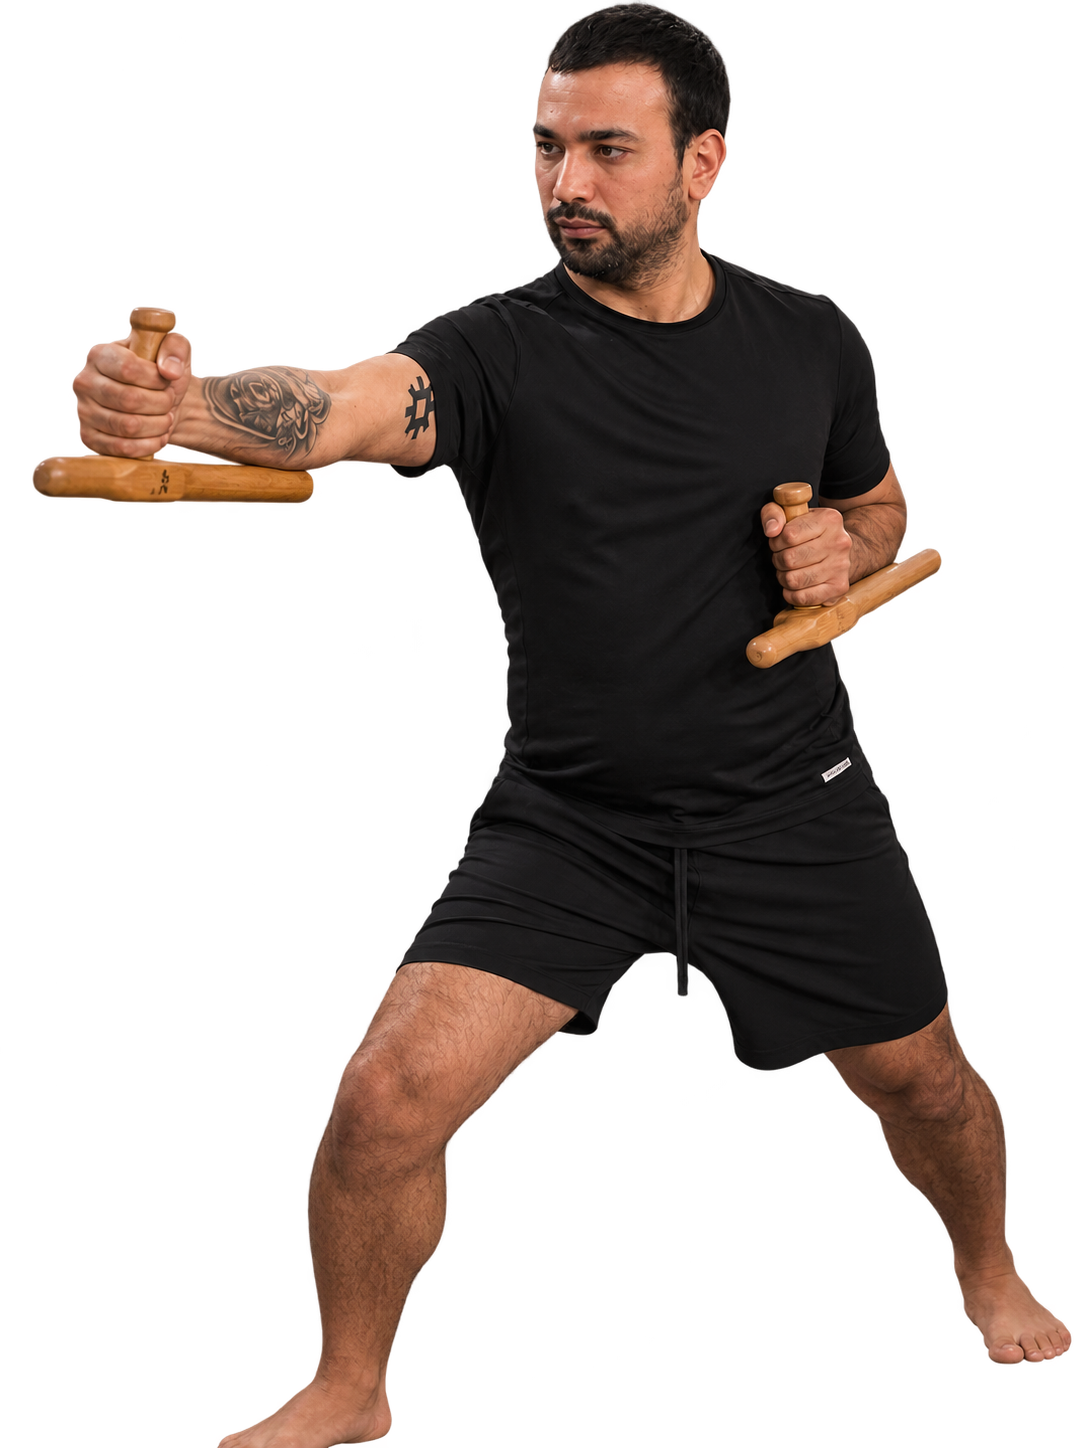
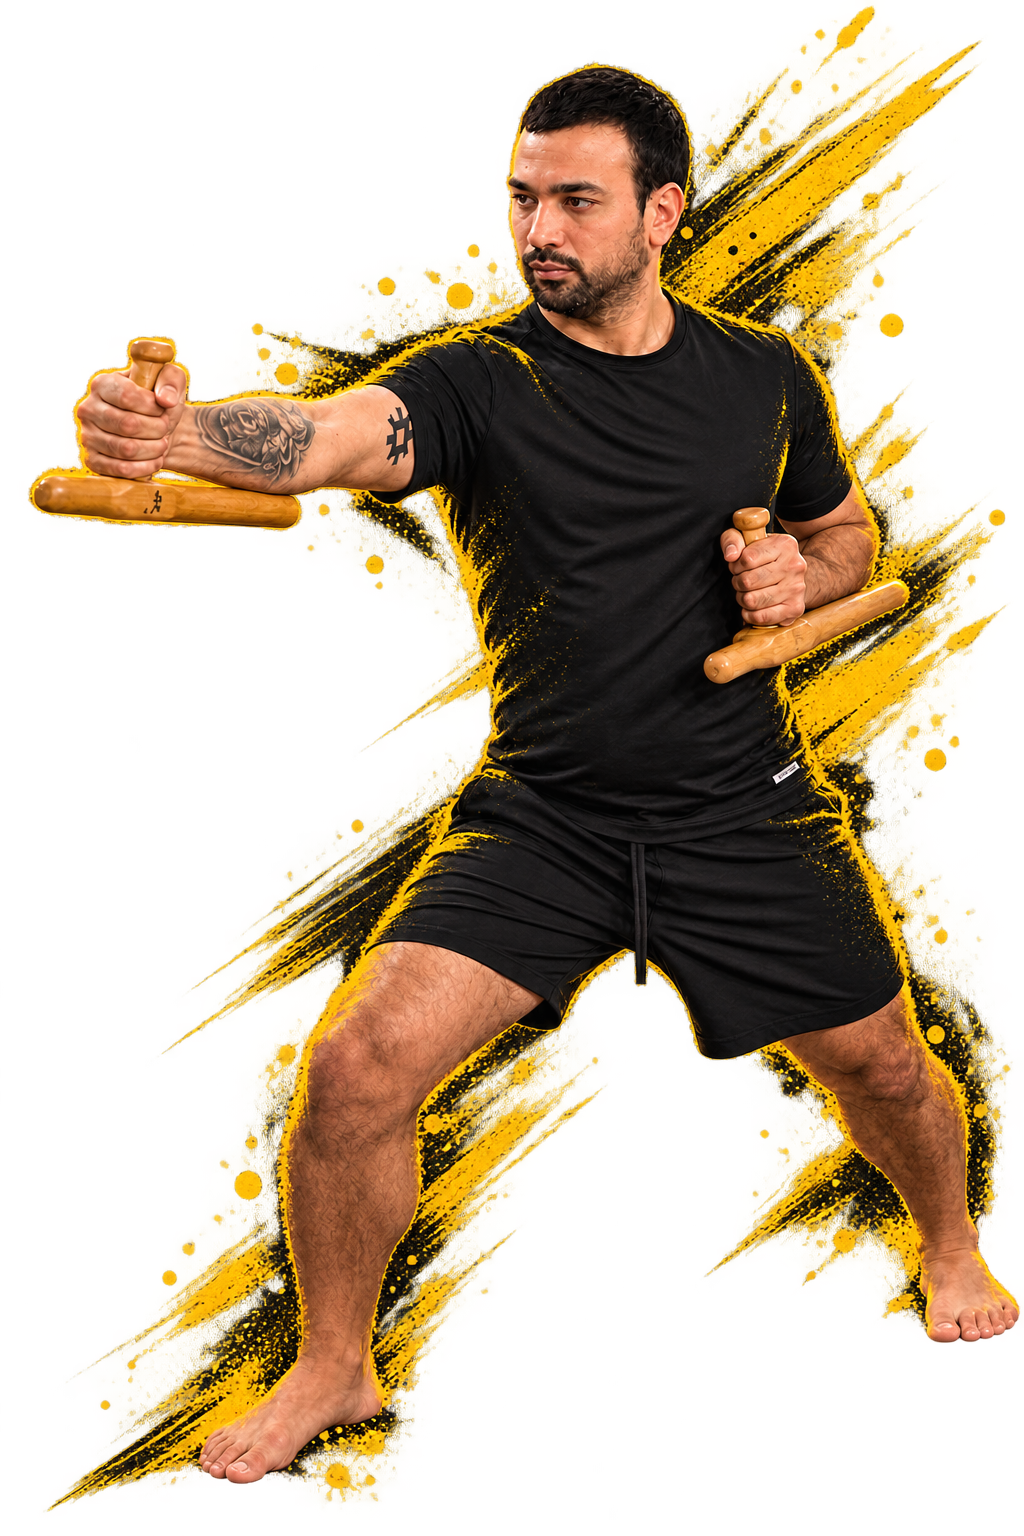
...

Changed region(s): [[0.0312, 0.0, 1.0, 1.0], [0.6875, 0.5905, 0.7188, 0.6215], [0.6875, 0.5283, 0.7188, 0.5594]]

diff --git a/src/components/Location.tsx b/src/components/Location.tsx
@@ -4,58 +4,54 @@ export default function Location() {
   return (
     <section id="ubicacion" className="bg-dojo-black py-24 md:py-36 px-8 md:px-12">
       <div className="max-w-[1800px] mx-auto">
-        <div className="grid md:grid-cols-12 gap-8 md:gap-16">
-          <div className="md:col-span-5">
-            <FadeIn>
-              <p className="text-sm md:text-base tracking-[0.2em] uppercase text-dojo-muted mb-10">
-                Dónde estamos
-              </p>
-              <h2 className="font-display text-3xl md:text-5xl leading-tight text-dojo-cream mb-8 flex items-center gap-4">
-                <img
-                  src="/images/logoCentro de proteccion de choferes.png"
-                  alt="Centro Protección de Choferes"
-                  className="h-12 md:h-16 w-auto"
-                />
-                <span>Club Centro Protección de Choferes</span>
-              </h2>
-              <div className="space-y-3 text-dojo-cream/70 text-sm md:text-base leading-relaxed">
-                <p>Soriano 1227</p>
-                <p>11100 Montevideo, Uruguay</p>
-              </div>
-              <div className="mt-8">
-                <a
-                  href="https://www.google.com/maps?ll=-34.896272,-56.182933&z=16&t=m&hl=es&gl=US&mapclient=embed&cid=7417570054425066054"
-                  target="_blank"
-                  rel="noopener noreferrer"
-                  className="inline-flex items-center gap-3 px-6 py-3 rounded-xl border border-dojo-cream/20 text-dojo-cream/80 hover:text-dojo-cream hover:border-dojo-cream/40 hover:bg-dojo-cream/[0.03] text-xs tracking-[0.15em] uppercase transition-all duration-500"
-                >
-                  <svg width="16" height="16" viewBox="0 0 24 24" fill="none" stroke="currentColor" strokeWidth="2" strokeLinecap="round" strokeLinejoin="round">
-                    <path d="M21 10c0 7-9 13-9 13s-9-6-9-13a9 9 0 0118 0z" />
-                    <circle cx="12" cy="10" r="3" />
-                  </svg>
-                  Abrir en Google Maps
-                </a>
-              </div>
-            </FadeIn>
-          </div>
+        <div className="flex flex-col gap-12">
+          <FadeIn>
+            <p className="text-sm md:text-base tracking-[0.2em] uppercase text-dojo-muted mb-10 text-center">
+              Dónde estamos
+            </p>
+            <h2 className="font-display text-3xl md:text-5xl leading-tight text-dojo-cream mb-8 flex items-center justify-center gap-4">
+              <img
+                src="/images/logoCentro de proteccion de choferes.png"
+                alt="Centro Protección de Choferes"
+                className="h-12 md:h-16 w-auto"
+              />
+              <span>Club Centro Protección de Choferes</span>
+            </h2>
+            <div className="space-y-3 text-dojo-cream/70 text-sm md:text-base leading-relaxed text-center">
+              <p>Soriano 1227</p>
+              <p>11100 Montevideo, Uruguay</p>
+            </div>
+            <div className="mt-8 text-center">
+              <a
+                href="https://www.google.com/maps?ll=-34.896272,-56.182933&z=16&t=m&hl=es&gl=US&mapclient=embed&cid=7417570054425066054"
+                target="_blank"
+                rel="noopener noreferrer"
+                className="inline-flex items-center gap-3 px-6 py-3 rounded-xl border border-dojo-cream/20 text-dojo-cream/80 hover:text-dojo-cream hover:border-dojo-cream/40 hover:bg-dojo-cream/[0.03] text-xs tracking-[0.15em] uppercase transition-all duration-500"
+              >
+                <svg width="16" height="16" viewBox="0 0 24 24" fill="none" stroke="currentColor" strokeWidth="2" strokeLinecap="round" strokeLinejoin="round">
+                  <path d="M21 10c0 7-9 13-9 13s-9-6-9-13a9 9 0 0118 0z" />
+                  <circle cx="12" cy="10" r="3" />
+                </svg>
+                Abrir en Google Maps
+              </a>
+            </div>
+          </FadeIn>
 
-          <div className="md:col-span-6 md:col-start-7">
-            <FadeIn delay={0.2}>
-              <div className="relative overflow-hidden rounded-lg">
-                <iframe
-                  src="https://www.google.com/maps/embed?pb=!1m18!1m12!1m3!1d3272.7!2d-56.1919913!3d-34.9075538!2m3!1f0!2f0!3f0!3m2!1i1024!2i768!4f13.1!3m3!1m2!1s0x959f81cc557106b5%3A0x66f080aa1e94ba46!2sCentro%20Protecci%C3%B3n%20Choferes%20de%20Montevideo%20%22Sede%20Social%22!5e0!3m2!1ses!2suy!4v1680000000000"
-                  width="100%"
-                  height="400"
-                  style={{ border: 0, filter: 'invert(0.9) hue-rotate(180deg) brightness(1.05) contrast(0.9)' }}
-                  allowFullScreen
-                  loading="lazy"
-                  referrerPolicy="no-referrer-when-downgrade"
-                  title="Ubicación del dojo"
-                  className="w-full aspect-[4/5] md:aspect-auto md:h-[420px]"
-                />
-              </div>
-            </FadeIn>
-          </div>
+          <FadeIn delay={0.2}>
+            <div className="relative overflow-hidden rounded-lg w-1/2 mx-auto">
+              <iframe
+                src="https://www.google.com/maps/embed?pb=!1m18!1m12!1m3!1d3272.7!2d-56.1919913!3d-34.9075538!2m3!1f0!2f0!3f0!3m2!1i1024!2i768!4f13.1!3m3!1m2!1s0x959f81cc557106b5%3A0x66f080aa1e94ba46!2sCentro%20Protecci%C3%B3n%20Choferes%20de%20Montevideo%20%22Sede%20Social%22!5e0!3m2!1ses!2suy!4v1680000000000"
+                width="100%"
+                height="400"
+                style={{ border: 0, filter: 'invert(0.9) hue-rotate(180deg) brightness(1.05) contrast(0.9)' }}
+                allowFullScreen
+                loading="lazy"
+                referrerPolicy="no-referrer-when-downgrade"
+                title="Ubicación del dojo"
+                className="w-full aspect-[4/5] md:aspect-auto md:h-[420px]"
+              />
+            </div>
+          </FadeIn>
         </div>
       </div>
     </section>

diff --git a/src/components/FAQ.tsx b/src/components/FAQ.tsx
@@ -1,5 +1,5 @@
+import { AnimatePresence, motion } from 'framer-motion'
 import { useState } from 'react'
-import { motion, AnimatePresence } from 'framer-motion'
 import FadeIn from './FadeIn'
 
 const faqs = [
@@ -34,54 +34,50 @@ export default function FAQ() {
   return (
     <section id="faq" className="bg-dojo-black py-24 md:py-36 px-8 md:px-12">
       <div className="max-w-[1800px] mx-auto">
-        <div className="grid md:grid-cols-12 gap-8 md:gap-16">
-          <div className="md:col-span-4">
-            <FadeIn>
-              <p className="text-sm md:text-base tracking-[0.2em] uppercase text-dojo-muted mb-8">
-                Preguntas frecuentes
-              </p>
-              <h2 className="font-display text-3xl md:text-4xl leading-tight text-dojo-cream">
-                Lo que necesitás saber antes de venir.
-              </h2>
-            </FadeIn>
-          </div>
+        <div className="flex flex-col gap-12">
+          <FadeIn>
+            <p className="text-sm md:text-base tracking-[0.2em] uppercase text-dojo-muted mb-8 text-center">
+              Preguntas frecuentes
+            </p>
+            <h2 className="font-display text-3xl md:text-4xl leading-tight text-dojo-cream text-center">
+              Lo que necesitás saber antes de venir.
+            </h2>
+          </FadeIn>
 
-          <div className="md:col-span-7 md:col-start-6">
-            <FadeIn delay={0.1}>
-              <div className="border border-dojo-cream/10 rounded-2xl bg-dojo-cream/[0.02] shadow-[0_4px_24px_-8px_rgba(0,0,0,0.5)] overflow-hidden">
-                {faqs.map((faq, i) => (
-                  <div key={i} className={i < faqs.length - 1 ? 'border-b border-dojo-cream/5' : ''}>
-                    <button
-                      onClick={() => setOpenIndex(openIndex === i ? null : i)}
-                      className="w-full flex items-center justify-between px-6 py-5 text-left group"
-                    >
-                      <span className="text-dojo-cream text-sm md:text-base pr-4 group-hover:text-dojo-cream/90 transition-colors duration-300">
-                        {faq.question}
-                      </span>
-                      <span className={`text-dojo-muted text-lg transition-transform duration-500 shrink-0 ${openIndex === i ? 'rotate-45' : ''}`}>
-                        +
-                      </span>
-                    </button>
-                    <AnimatePresence initial={false}>
-                      {openIndex === i && (
-                        <motion.div
-                          initial={{ height: 0, opacity: 0 }}
-                          animate={{ height: 'auto', opacity: 1 }}
-                          exit={{ height: 0, opacity: 0 }}
-                          transition={{ duration: 0.35, ease: [0.25, 0.46, 0.45, 0.94] }}
-                          className="overflow-hidden"
-                        >
-                          <p className="text-dojo-cream/60 text-sm leading-relaxed pb-5 px-6">
-                            {faq.answer}
-                          </p>
-                        </motion.div>
-                      )}
-                    </AnimatePresence>
-                  </div>
-                ))}
-              </div>
-            </FadeIn>
-          </div>
+          <FadeIn delay={0.1}>
+            <div className="border border-dojo-cream/10 rounded-2xl bg-dojo-cream/[0.02] shadow-[0_4px_24px_-8px_rgba(0,0,0,0.5)] w-1/2 mx-auto overflow-hidden">
+              {faqs.map((faq, i) => (
+                <div key={i} className={i < faqs.length - 1 ? 'border-b border-dojo-cream/5' : ''}>
+                  <button
+                    onClick={() => setOpenIndex(openIndex === i ? null : i)}
+                    className="w-full flex items-center justify-between px-6 py-5 text-left group"
+                  >
+                    <span className="text-dojo-cream text-sm md:text-base pr-4 group-hover:text-dojo-cream/90 transition-colors duration-300">
+                      {faq.question}
+                    </span>
+                    <span className={`text-dojo-muted text-lg transition-transform duration-500 shrink-0 ${openIndex === i ? 'rotate-45' : ''}`}>
+                      +
+                    </span>
+                  </button>
+                  <AnimatePresence initial={false}>
+                    {openIndex === i && (
+                      <motion.div
+                        initial={{ height: 0, opacity: 0 }}
+                        animate={{ height: 'auto', opacity: 1 }}
+                        exit={{ height: 0, opacity: 0 }}
+                        transition={{ duration: 0.35, ease: [0.25, 0.46, 0.45, 0.94] }}
+                        className="overflow-hidden"
+                      >
+                        <p className="text-dojo-cream/60 text-sm leading-relaxed pb-5 px-6">
+                          {faq.answer}
+                        </p>
+                      </motion.div>
+                    )}
+                  </AnimatePresence>
+                </div>
+              ))}
+            </div>
+          </FadeIn>
         </div>
       </div>
     </section>

diff --git a/src/components/TrainingExperience.tsx b/src/components/TrainingExperience.tsx
@@ -4,50 +4,42 @@ export default function TrainingExperience() {
   return (
     <section id="clases" className="bg-dojo-black py-20 md:py-32 px-8 md:px-12">
       <div className="max-w-[1800px] mx-auto">
-        <FadeIn>
-          <p className="text-sm md:text-base tracking-[0.2em] uppercase text-dojo-muted mb-10 md:mb-14">
-            La clase
-          </p>
-        </FadeIn>
 
-        <div className="grid md:grid-cols-12 gap-8 md:gap-16 items-center">
-          {/* Left: image w-2/3 */}
-          <div className="md:col-span-8">
-            <FadeIn delay={0.1}>
-              <div className="relative overflow-hidden rounded-2xl">
-                <img
-                  src="/images/profe_leopoldo_con_alumna.png"
-                  alt="Sensei Leopoldo instruyendo a una alumna"
-                  loading="lazy"
-                  className="w-full aspect-[4/3] md:aspect-[16/10] object-cover"
-                />
-              </div>
-            </FadeIn>
-          </div>
 
-          {/* Right: text */}
-          <div className="md:col-span-4">
-            <FadeIn delay={0.3}>
-              <h2 className="font-display text-2xl md:text-4xl leading-tight text-dojo-cream mb-8">
-                Desde los 4 años.
-                <br />
-                Sin límite de edad.
-                <br />
-                Sin experiencia previa.
-              </h2>
-              <div className="space-y-4 text-dojo-cream/70 text-sm md:text-base leading-relaxed">
-                <p>
-                  Nuestras clases se dividen en grupos según la edad y el nivel de cada alumno, asegurando que todos reciban la atención adecuada.
-                </p>
-                <p>
-                  Los niños entrenan de 17:30 a 18:15 hs, mientras que los jóvenes y adultos lo hacen de 18:45 a 20:00 hs.
-                </p>
-                <p>
-                  No es necesario tener el karate-gi para tu primera clase. Ropa deportiva cómoda y una botella de agua es todo lo que necesitás.
-                </p>
-              </div>
-            </FadeIn>
-          </div>
+        <div className="flex flex-col gap-12">
+          {/* Text */}
+          <FadeIn delay={0.1} className="text-center">
+            <h2 className="font-display text-2xl md:text-4xl leading-tight text-dojo-cream mb-8">
+              Desde los 4 años.
+              <br />
+              Sin límite de edad.
+              <br />
+              Sin experiencia previa.
+            </h2>
+            <div className="space-y-4 text-dojo-cream/70 text-sm md:text-base leading-relaxed">
+              <p>
+                Nuestras clases se dividen en grupos según la edad y el nivel de cada alumno, asegurando que todos reciban la atención adecuada.
+              </p>
+              <p>
+                Los niños entrenan de 17:30 a 18:15 hs, mientras que los jóvenes y adultos lo hacen de 18:45 a 20:00 hs.
+              </p>
+              <p>
+                No es necesario tener el karate-gi para tu primera clase. Ropa deportiva cómoda y una botella de agua es todo lo que necesitás.
+              </p>
+            </div>
+          </FadeIn>
+
+          {/* Image */}
+          <FadeIn delay={0.3}>
+            <div className="relative overflow-hidden rounded-2xl w-1/2 mx-auto">
+              <img
+                src="/images/profe_leopoldo_con_alumna.png"
+                alt="Sensei Leopoldo instruyendo a una alumna"
+                loading="lazy"
+                className="w-full aspect-[4/3] md:aspect-[16/10] object-cover"
+              />
+            </div>
+          </FadeIn>
         </div>
       </div>
     </section>

diff --git a/src/components/FinalCTA.tsx b/src/components/FinalCTA.tsx
@@ -5,18 +5,18 @@ export default function FinalCTA() {
     <section className="bg-dojo-black py-24 md:py-48 px-8 md:px-12">
       <div className="max-w-[1800px] mx-auto">
         <FadeIn>
-          <div className="max-w-3xl">
+          <div className="max-w-5xl mx-auto text-center overflow-hidden">
             <p className="text-sm md:text-base tracking-[0.2em] uppercase text-dojo-yellow mb-10">
               Empezá hoy
             </p>
-            <p className="font-display text-4xl md:text-6xl lg:text-7xl leading-none text-dojo-cream mb-8">
+            <p className="font-display text-3xl sm:text-4xl md:text-5xl lg:text-6xl xl:text-7xl leading-none text-dojo-cream mb-8 whitespace-nowrap">
               Tu primera clase es gratuita.
             </p>
-            <p className="text-dojo-cream/60 text-base md:text-lg leading-relaxed mb-12 max-w-xl">
+            <p className="text-dojo-cream/60 text-base md:text-lg leading-relaxed mb-12 max-w-xl mx-auto">
               Sin matrícula. Sin compromiso. Solo traé ropa cómoda y las ganas de descubrir un camino con más de tres siglos de historia.
             </p>
 
-            <div className="flex flex-col sm:flex-row items-start sm:items-center gap-6">
+            <div className="flex flex-col sm:flex-row items-center justify-center gap-6">
               <a
                 href="https://wa.me/59897492208"
                 target="_blank"
@@ -28,7 +28,7 @@ export default function FinalCTA() {
                 </svg>
                 Escribinos por WhatsApp
               </a>
-              <div className="text-dojo-muted text-sm space-y-1">
+              <div className="text-dojo-muted text-sm space-y-1 text-center">
                 <p>+598 97 492 208</p>
                 <p>+598 99 213 661</p>
               </div>

diff --git a/src/components/Benefits.tsx b/src/components/Benefits.tsx
@@ -39,7 +39,7 @@ export default function Benefits() {
                   src="/images/alumno_1_final.png"
                   alt="Alumno de Kobayashi Uruguay"
                   loading="lazy"
-                  className="w-full aspect-[3/4] object-cover"
+                  className="w-full object-contain"
                 />
                 <div className="absolute inset-0 bg-dojo-black/20" />
               </div>
